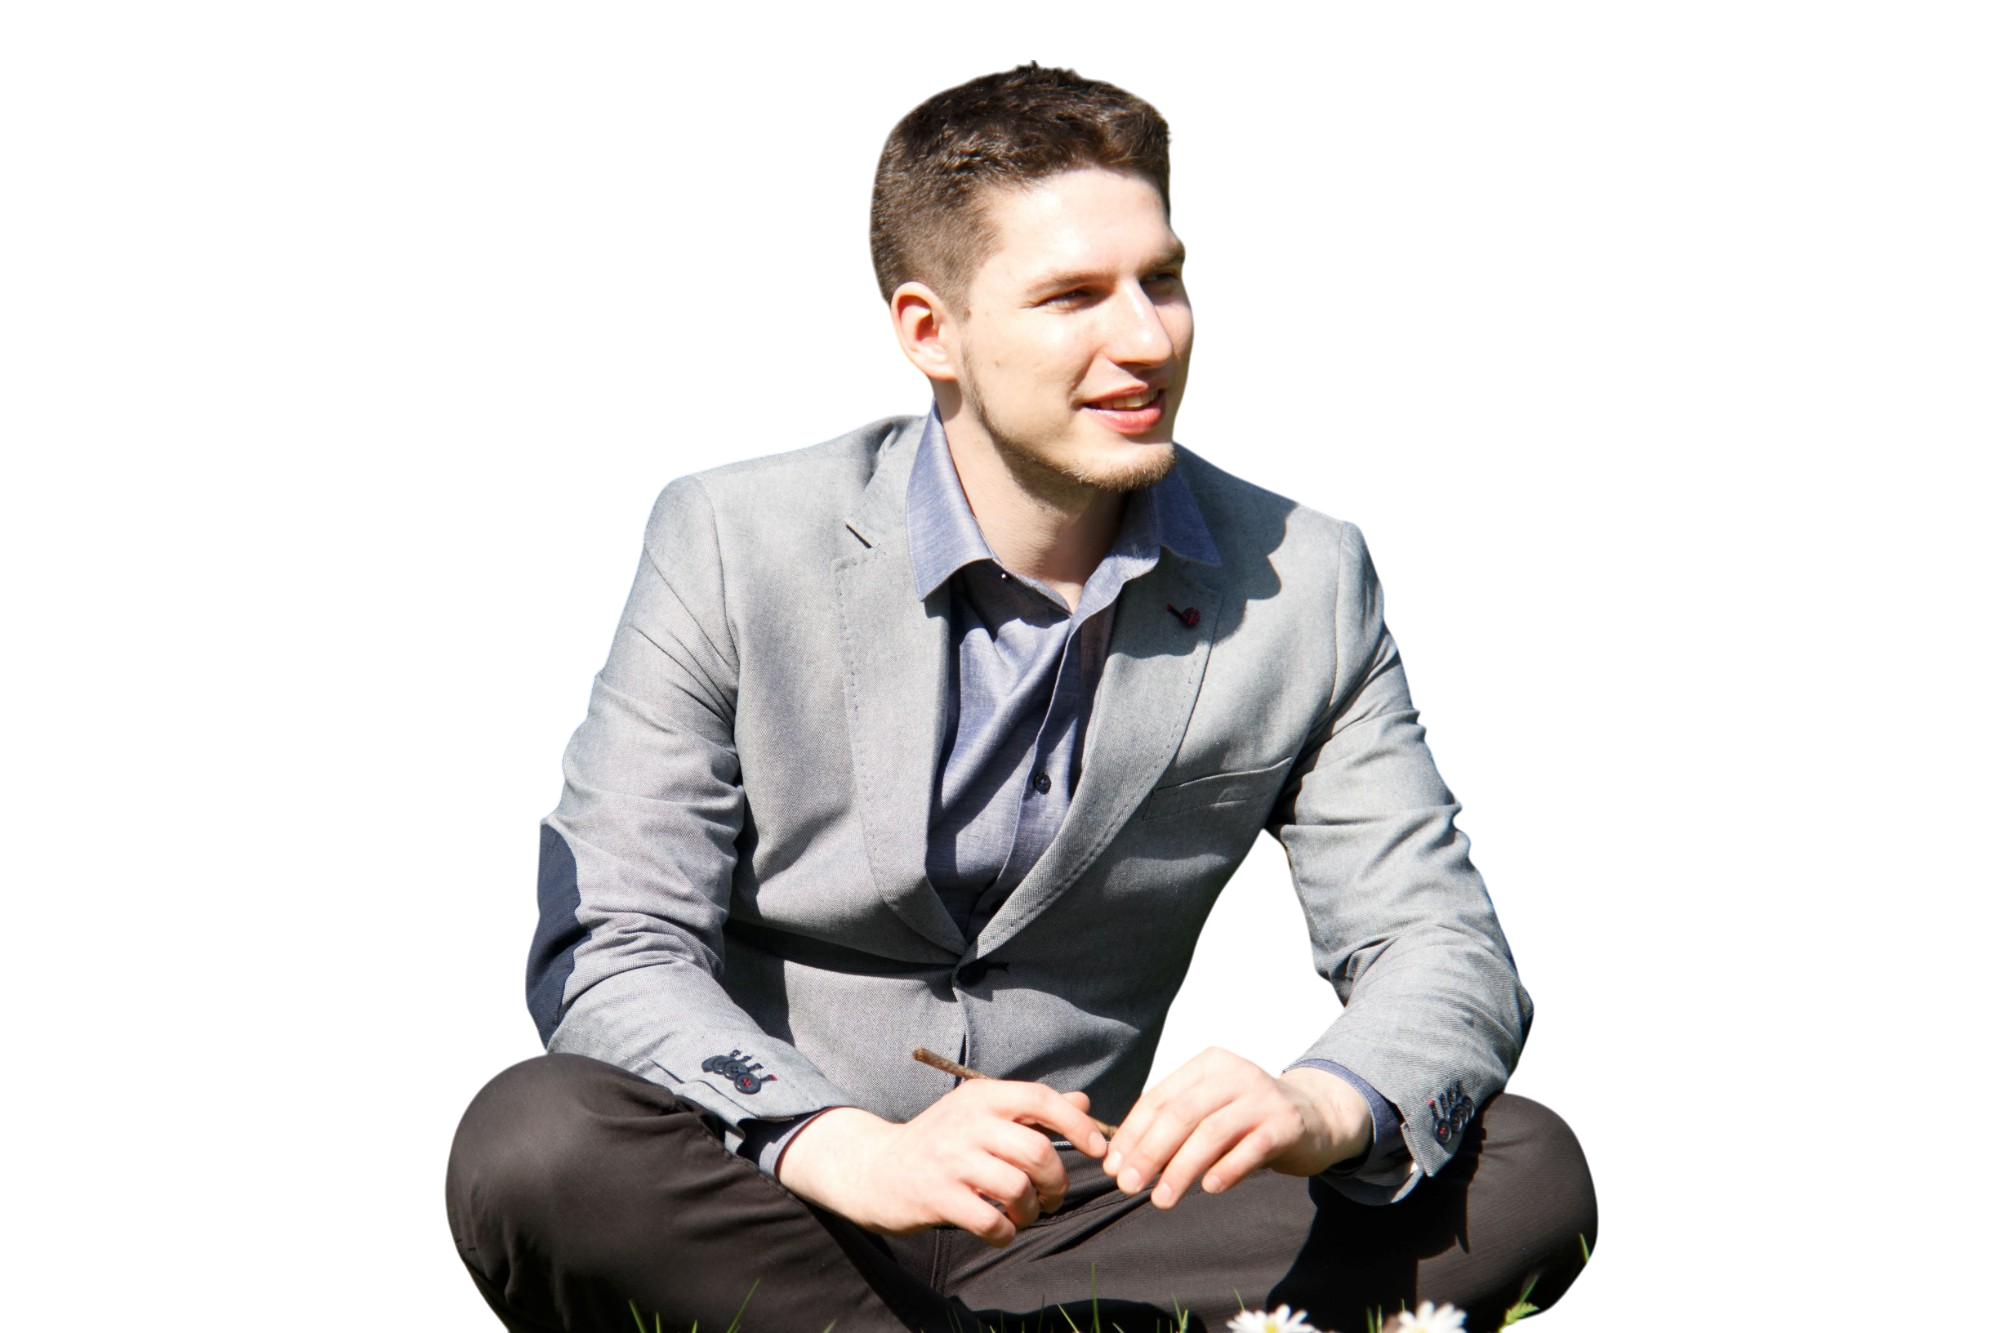
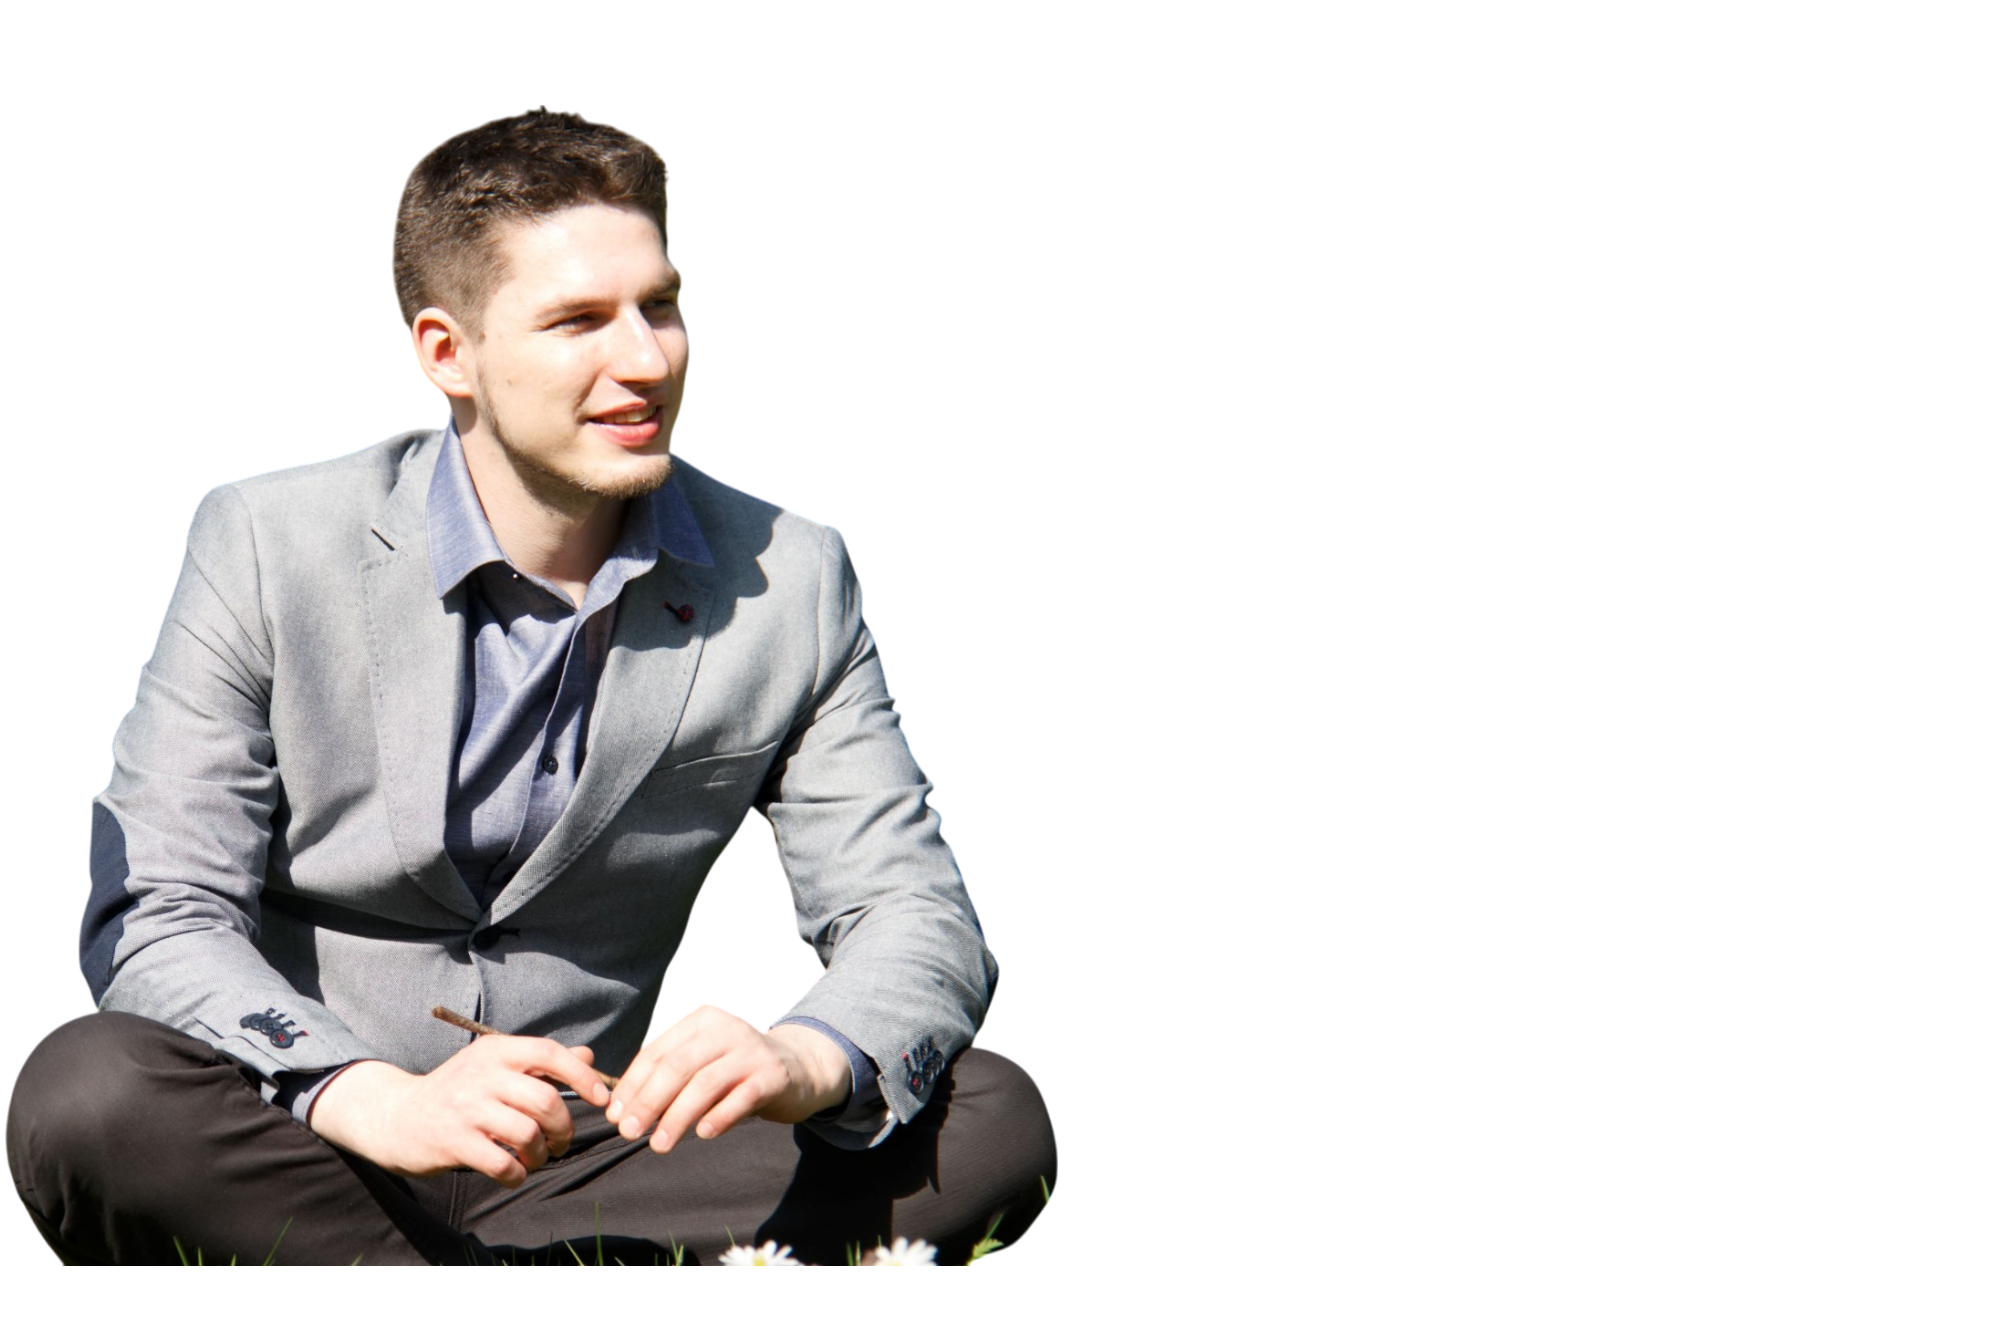
chnage profile picture and home class style with h1 info new style. Working on profile picture

diff --git a/css/mystyle.css b/css/mystyle.css
@@ -128,3 +128,15 @@ nav{
   padding: 0 10%;
   backface-visibility: hidden;
 }
+
+.home{
+  display: flex;
+  align-items: center;
+  gap: 5rem;
+}
+
+.home-info h1{
+  font-size: 5.5rem;
+  color: var(--main-color);
+  line-height: 1;
+}
